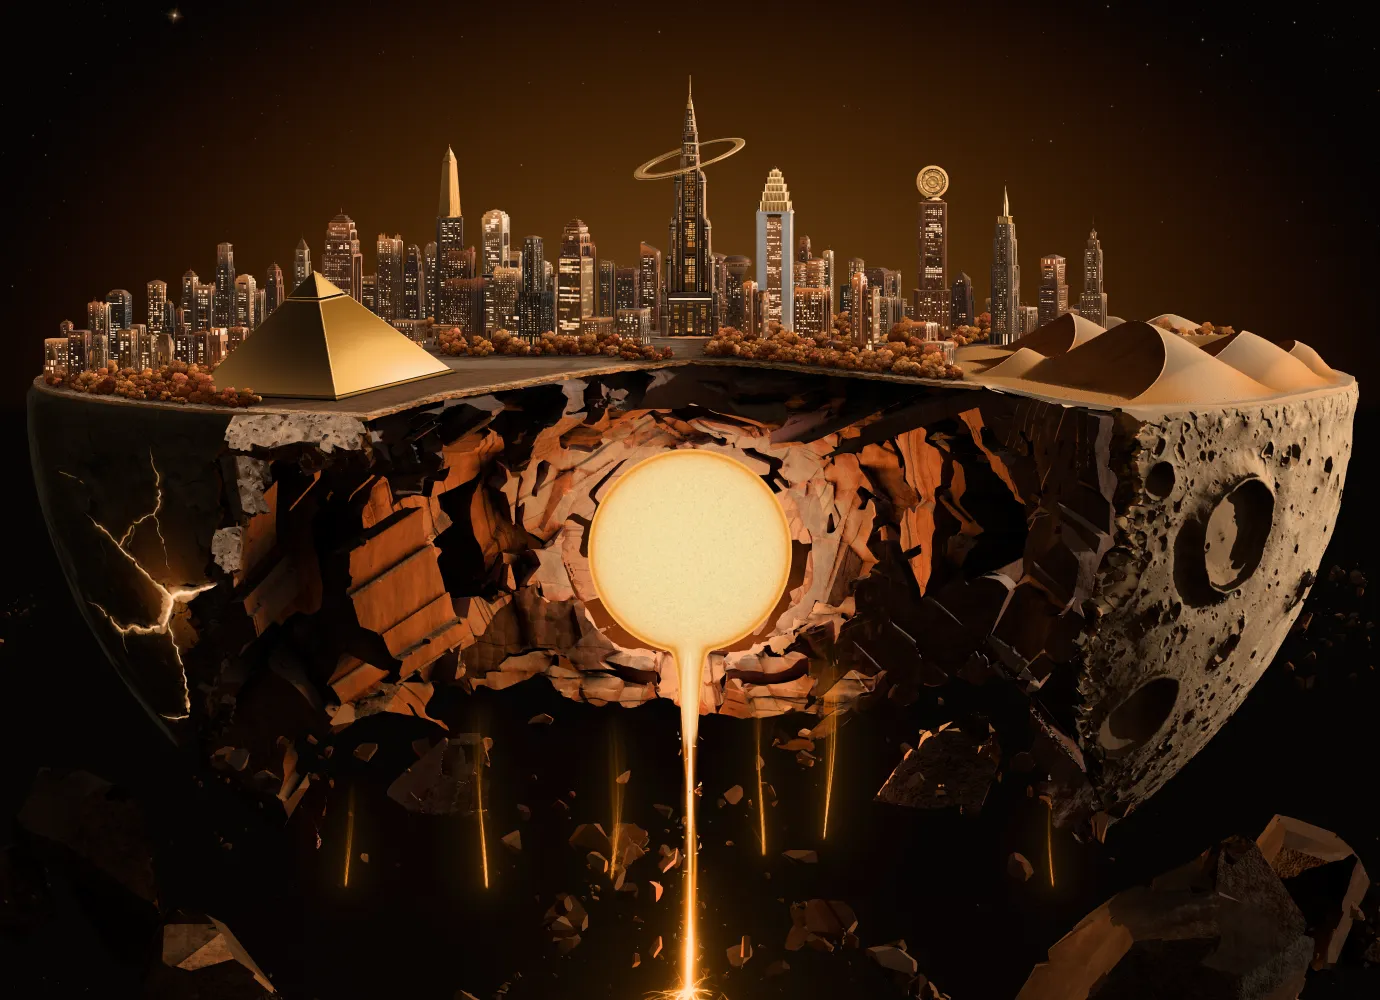
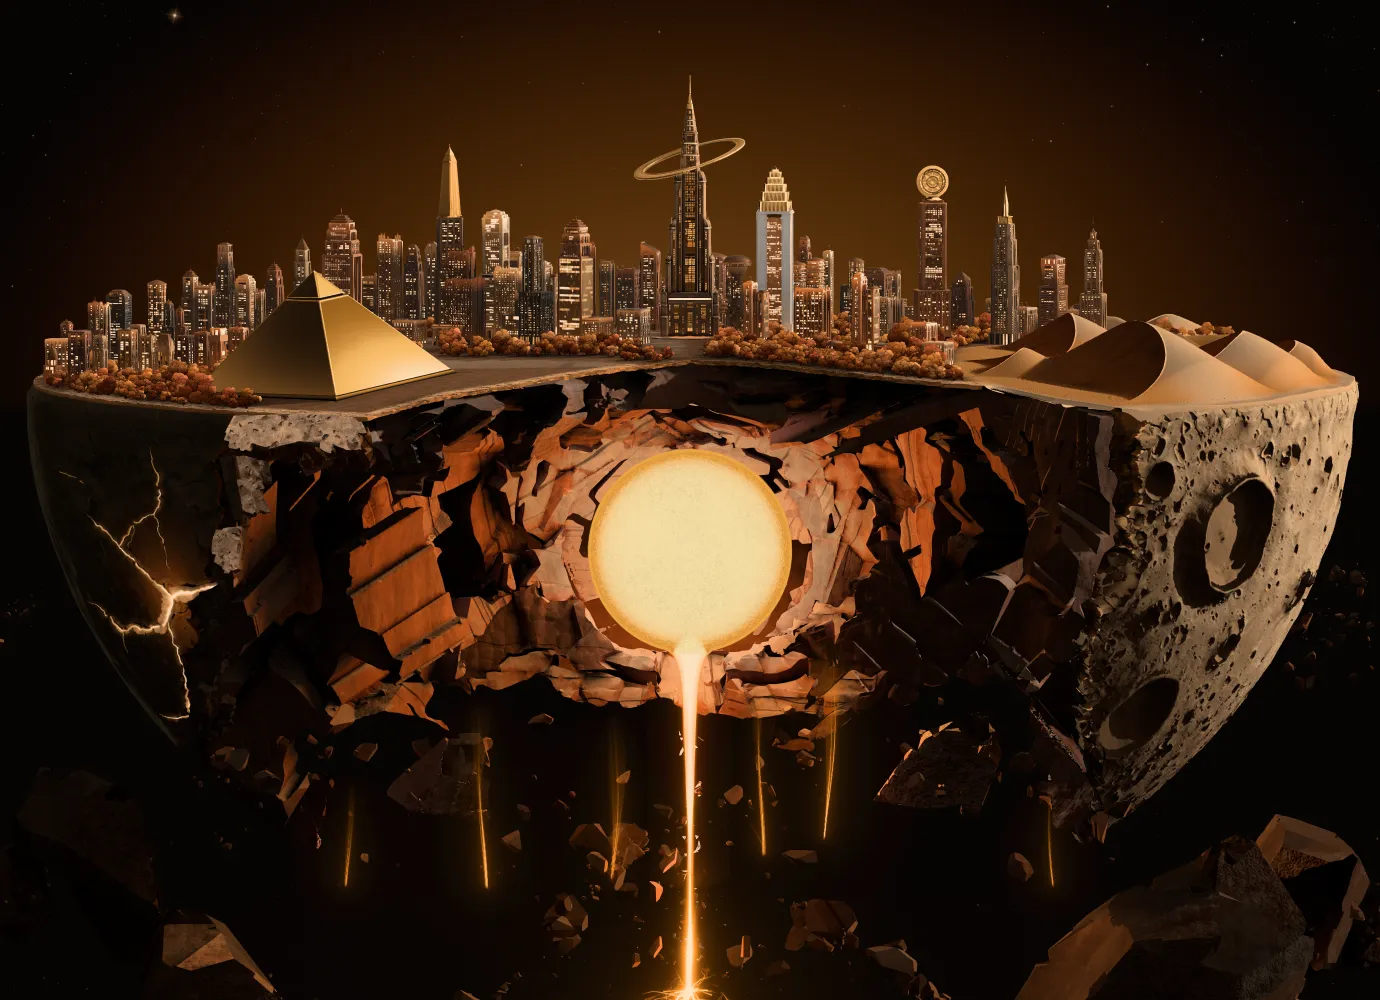
The log at half past eight, and the stills taken again from the build that is pushed

diff --git a/LOG.md b/LOG.md
@@ -191,6 +191,8 @@ Newest first. One entry per piece of work. Say what was done, what Brandon said,
     - `spire` rounds 10 and 11 are kept and committed together (7 and 6.5: the ring in the crown's own gold and plainly in front of the shaft, a top with gold bands, lancets and a fluted sheath). **The spire rests there**, the best part of the world. Left for it: a ring that mirrors (it is still a satin hoop at the page's size), the mast's neck as an unbroken line at scale 1, the four lancets varied.
     - **Running:** `towers` 11 (his tower), `rock-r` 8, `skin` 9, `core` 12, `land` 8. Waiting on the rock: `debris` 8.
 - **About 08:20, by Fable:** `skin` round 9 is kept (6 and 5.5: the pale tear on the picture's leaning line in lit chunks, a warm light on the rock round the knot, a graded heart). Its files were made in the scratch copy against the committed rock. **The skin rests there for now**: no tenth round is launched, so the machine is freer for his tower, the rock and the dunes. Left for it: arms as cut clefts and not ribbons, the slab and chunks in the planet's stone with no square grain, pits with lit rims, the large crater's crescent on the upper right wall as picture 9 has it, the dark shell's lower band toward (350, 700).
+- **About 08:30, by Fable:** `core` round 12 is kept (6 and 5.5: picture 9's broad pale column, light with no amber outline, from the ball down to the page's stream, and a face of fine light with no dark flecks). **One change of Fable's to it:** its drifting light stained the face in patches, so `DRIFT_LIGHT` in `core.ts` is 0.12 where the builder left 0.4. On the page at its own size the ball, the column and the stream read as one line. **The core rests there.** Left for it: both reviewers still find a seam at about 232 units at three times (the page's glow warms the column over the 25 units above the page's heart: `STREAM.hero.lit` and `uLit` are where to look), the column as strands and not a tube, riders that read as shards, and whether the ball keeps a column on the first screen before the stream sets off, which is his to say since it changes the hero at rest.
+- **Running at 08:30:** `towers` 11 (his stepped tower), `rock-r` 8, `land` 8. Resting: spire, skin, core, pyramid, trees. Waiting on the rock: `debris` 8.
 - **Still to do before he wakes:** the hero joined to the new world so the page scrolls to Contact, `npm run mem` and `npm run perf`, a production build, the push, the overlays and side by sides kept in `reference/studies/`, and a plain account of what is at the bar and what is not.
 
 ## 2026-11-15 · The frame corrected to picture 9, and the rock traced from the picture (Fable, Claude Code)
